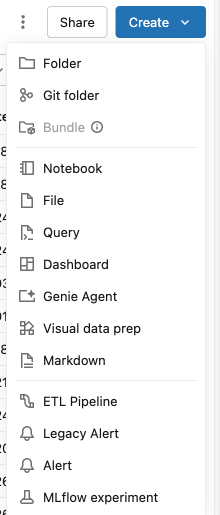
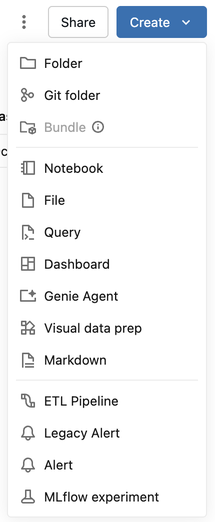
docs: install the skill as a plain folder; a Git folder in .assistant/skills is not loaded
Genie Code does not load a skill whose folder is itself a Git folder, so the previous
install (clone straight into .assistant/skills) left Network Doctor invisible and Genie
answered with generic causes. The README now clones the Git folder into your user folder
and installs the skill into .assistant/skills/network-doctor with one notebook cell;
updating is a Pull plus re-running the cell. Confirm with @ -> Skills. Screenshots retaken.

diff --git a/README.md b/README.md
@@ -19,7 +19,8 @@ words, in a chat, in any language. It asks you one question at a time and finish
 report you can hand to whoever owns your Azure network.
 
 **→ [Install it in your workspace](#install-it-in-your-workspace)** — clone this repository
-in as a Databricks Git folder. About three minutes, no CLI, screenshots included.
+as a Databricks Git folder, then run one cell to install the skill. About three minutes, no
+CLI, screenshots included.
 
 ### What using it looks like
 
@@ -84,42 +85,61 @@ Root causes are buried across layers — VNets, NSGs, route tables, firewalls, P
 ## Install it in your workspace
 
 Network Doctor is a **skill**: a folder that [Genie Code](https://docs.databricks.com/aws/en/genie-code/)
-reads. So installing it means putting this repository in the place Genie Code looks — which
-you do by **cloning it in as a Databricks Git folder**. No CLI, no script, nothing to copy
-file by file, and updating later is a `Pull`.
+reads from `/Workspace/Users/<you>/.assistant/skills/`. Installing it takes two steps: you
+clone this repository as a **Databricks Git folder** in your user folder, so updating later
+is a `Pull`, and you run **one notebook cell** that copies the skill into
+`.assistant/skills`. No CLI.
 
 **About three minutes**, and you can do it yourself if you can open a notebook. You do not
 need to be a workspace admin.
 
-### 1. Find where Genie Code keeps skills
+> **Why two steps:** Genie Code does not load a skill whose folder is itself a Git folder.
+> Cloning straight into `.assistant/skills` leaves the skill invisible to Genie Code, so the
+> Git folder lives in your user folder and the install cell puts a plain copy where Genie
+> Code looks.
 
-In the **Workspace** browser, open your own user folder and go into `.assistant` → `skills`.
-It starts with a dot but it is an ordinary folder — visible, and you can click straight into
-it:
+### 1. Clone this repository as a Git folder in your user folder
 
-![The .assistant/skills folder in the workspace browser](docs/images/nd-03-skills-folder.png)
-
-Anything in `skills/` is a skill Genie Code can read. Network Doctor will be one folder in
-here, and it touches nothing else in your workspace.
-
-### 2. Clone this repository in as a Git folder
-
-Standing **inside** `.assistant/skills`, click **Create** → **Git folder**:
+In the **Workspace** browser, open your own user folder (**Workspace** → **Users** → you) and
+click **Create** → **Git folder**:
 
 ![The Create menu, with Git folder](docs/images/nd-01-create-menu.png)
 
-The Git folder is created wherever you are standing, so being inside `skills/` before you
-click is the whole trick.
-
 | Field | Value |
 |---|---|
-| **Git repository URL** | this repository's `.git` URL |
+| **Git repository URL** | `https://github.com/databricks-solutions/network-doctor.git` |
 | **Git provider** | GitHub |
-| **Git folder name** | `network-doctor` — **exactly this**; it is part of the path the skill resolves |
+| **Git folder name** | `network-doctor` — the install cell looks for exactly this name |
 
 ![The Create Git folder dialog](docs/images/nd-02-git-folder-dialog.png)
 
-Leave **Sparse checkout mode** off, then **Create Git folder**. You end up with:
+Leave **Sparse checkout mode** off, then **Create Git folder**. The repository is public, so
+no Git credential is needed. If your workspace requires one for GitHub, add it under your
+name, top-right → **Settings** → **Linked accounts** → **Git integration**.
+
+### 2. Install the skill where Genie Code looks
+
+Open any Python notebook (serverless is fine), paste this cell and run it:
+
+```python
+# Network Doctor: install (or update) the skill from your Git folder
+import os, shutil
+
+me = spark.sql("SELECT current_user()").first()[0]
+src = f"/Workspace/Users/{me}/network-doctor"                    # the Git folder from step 1
+dst = f"/Workspace/Users/{me}/.assistant/skills/network-doctor"  # where Genie Code looks for skills
+
+shutil.rmtree(dst, ignore_errors=True)
+os.makedirs(dst)
+shutil.copyfile(f"{src}/SKILL.md", f"{dst}/SKILL.md")
+for d in ("reference", "scripts"):
+    shutil.copytree(f"{src}/{d}", f"{dst}/{d}", copy_function=shutil.copyfile)
+
+print("Installed:", sorted(os.listdir(dst)))
+```
+
+It prints `Installed: ['SKILL.md', 'reference', 'scripts']`. It creates `.assistant/skills` if
+your workspace does not have it yet, and you end up with an ordinary folder:
 
 ```
 /Workspace/Users/<you>/.assistant/skills/network-doctor/
@@ -128,13 +148,10 @@ Leave **Sparse checkout mode** off, then **Create Git folder**. You end up with:
 └── scripts/          twelve Python modules — the diagnostic engine
 ```
 
-**Nothing else is written anywhere** — no tables, no schemas, no jobs, no clusters at
-install time.
+![The network-doctor folder inside .assistant/skills](docs/images/nd-03-skills-folder.png)
 
-> **While this repository is private**, your workspace needs a Git credential that can read
-> it: your name, top-right → **Settings** → **Linked accounts** → **Git integration**. That
-> is standard Databricks Git folder setup, stored per-user by Databricks; Network Doctor
-> never sees it.
+**Nothing else is written anywhere**: no tables, no schemas, no jobs, no clusters at
+install time.
 
 ### 3. Describe your problem — that is the whole interface
 
@@ -154,23 +171,28 @@ every layer it could not check. It also saves an HTML dashboard and a JSON repor
 `/Workspace/Users/<you>/network_doctor_reports/` — but if the notebook cell that draws the
 dashboard fails to render, you have lost nothing.
 
-### Confirming the skill is enabled
+### Confirming the skill is loaded
 
-Cloning registers Network Doctor automatically — it shows up under **Genie Code →
-Customizations → Skills** as a **User** skill, already enabled. You do not add it by hand.
-If its toggle is ever off it will not load, so switch it back on here. This panel is also
-where **Add skill** lets you register other skills, by name or by folder path.
+Type `@` in the Genie Code prompt and open **Skills**: `network-doctor` must be listed.
+
+![network-doctor listed under @ → Skills in the Genie Code prompt](docs/images/nd-06-skill-in-genie.png)
+
+It also shows up under **Genie Code → Customizations → Skills** as a **User** skill, already
+enabled. If its toggle is ever off it will not load, so switch it back on there.
 
 ![The network-doctor skill enabled under Genie Code → Customizations → Skills](docs/images/nd-05-genie-skills.png)
 
 ### Updating, and removing
 
-**Updating** is a `Pull` on the Git folder. Then start a **fresh** Genie Code conversation —
-an open session may still hold the previous instructions.
+**Updating** is a `Pull` on the Git folder, then **run the install cell again**. It replaces
+the copy in `.assistant/skills`. Then start a **fresh** Genie Code conversation, because an
+open one keeps the previous instructions. If Genie Code still shows the old version,
+hard-refresh the browser tab.
 
-**Removing** it is deleting the Git folder. There is nothing else to undo: no tables, no
-schemas, no jobs, and no cluster to clean up, because Network Doctor never creates compute.
-Reports you asked it to save stay in `network_doctor_reports/` until you delete them.
+**Removing** it is deleting `.assistant/skills/network-doctor` and the Git folder. There is
+nothing else to undo: no tables, no schemas, no jobs, and no cluster to clean up, because
+Network Doctor never creates compute. Reports you asked it to save stay in
+`network_doctor_reports/` until you delete them.
 
 ---
 
@@ -179,9 +201,9 @@ Reports you asked it to save stay in `network_doctor_reports/` until you delete 
 | What you see | Why | What to do |
 |---|---|---|
 | No sparkle icon in the notebook | Genie Code isn't enabled for this workspace | Ask your workspace administrator to enable it |
-| `No Git credential configured` when creating the Git folder | The repository is private and your workspace has no token for it | The note in step 2 |
-| It answers with "possible causes" instead of asking you a question | Genie Code did not find the skill | Check the folder is at `.assistant/skills/network-doctor` (that exact name) with `SKILL.md` at its top level, not inside a subfolder. Then start a new conversation |
-| It says it can't load the diagnostic scripts | `scripts/` is not where the skill expects it, or the conversation predates the clone | Confirm the layout in step 2, then start a new conversation |
+| It answers with "possible causes" instead of asking you a question | Genie Code did not load the skill | Type `@` → **Skills**. If `network-doctor` is not listed, run the install cell (step 2). `.assistant/skills/network-doctor` must be an ordinary folder: a Git folder cloned there is ignored by Genie Code. Then hard-refresh the tab and start a new conversation |
+| The install cell fails with `FileNotFoundError` | The Git folder is not at `/Workspace/Users/<you>/network-doctor` | Name the Git folder exactly `network-doctor` and create it in your user folder (step 1) |
+| It says it can't load the diagnostic scripts | `scripts/` is missing from the installed copy, or the conversation predates the install | Run the install cell again, then start a new conversation |
 
 ---
 
@@ -324,9 +346,9 @@ Network is checked **before** RBAC — if there is no network path, role assignm
 
 - **Azure Databricks workspace**, with **Genie Code** available (the sparkle icon in a
   notebook). If you do not have that icon, there is nothing for the skill to run in.
-- **Permission to create a Git folder** in your own workspace user folder — which is
-  ordinary workspace-user access, not admin. While this repository is private, a Git
-  credential that can read it (Settings > Linked accounts).
+- **Permission to create a Git folder** in your own workspace user folder, and to run one
+  notebook cell that writes into your own `.assistant/skills`. That is ordinary
+  workspace-user access, not admin.
 - **A classic cluster you start** (for classic-compute Path A diagnostics). The probes must
   run from inside the workspace VNet, so they run on a cluster you provide — the tool asks for
   its id and **never creates, starts, stops or deletes compute**. A single-node cluster with a
@@ -370,7 +392,7 @@ admin only for the optional serverless NCC checks.
 **Data residency.** No data leaves your workspace and your Azure tenant. All Azure and
 Databricks API calls appear in your own audit logs.
 
-**Uninstall.** Delete the Git folder — see [Updating, and removing](#updating-and-removing).
+**Uninstall.** Delete `.assistant/skills/network-doctor` and the Git folder. See [Updating, and removing](#updating-and-removing).
 
 ---
 

diff --git a/CHANGELOG.md b/CHANGELOG.md
@@ -3,6 +3,18 @@
 The version shown in the footer of every report is the version you are running.
 Quote it if you need help with a result.
 
+## Unreleased
+
+### Fixed
+
+- **Installation now works as documented.** Genie Code does not load a skill whose folder is
+  itself a Git folder, so a clone straight into `.assistant/skills` left Network Doctor
+  invisible: Genie answered with generic "possible causes" instead of running the diagnosis.
+  The README now clones the Git folder into your user folder and installs the skill into
+  `.assistant/skills/network-doctor` with one notebook cell. Updating is a `Pull` plus
+  re-running that cell. If you installed with the old steps, delete the Git folder inside
+  `.assistant/skills` and follow the new ones.
+
 ## 1.1.0 — 2026-09-07
 
 ### Changed
